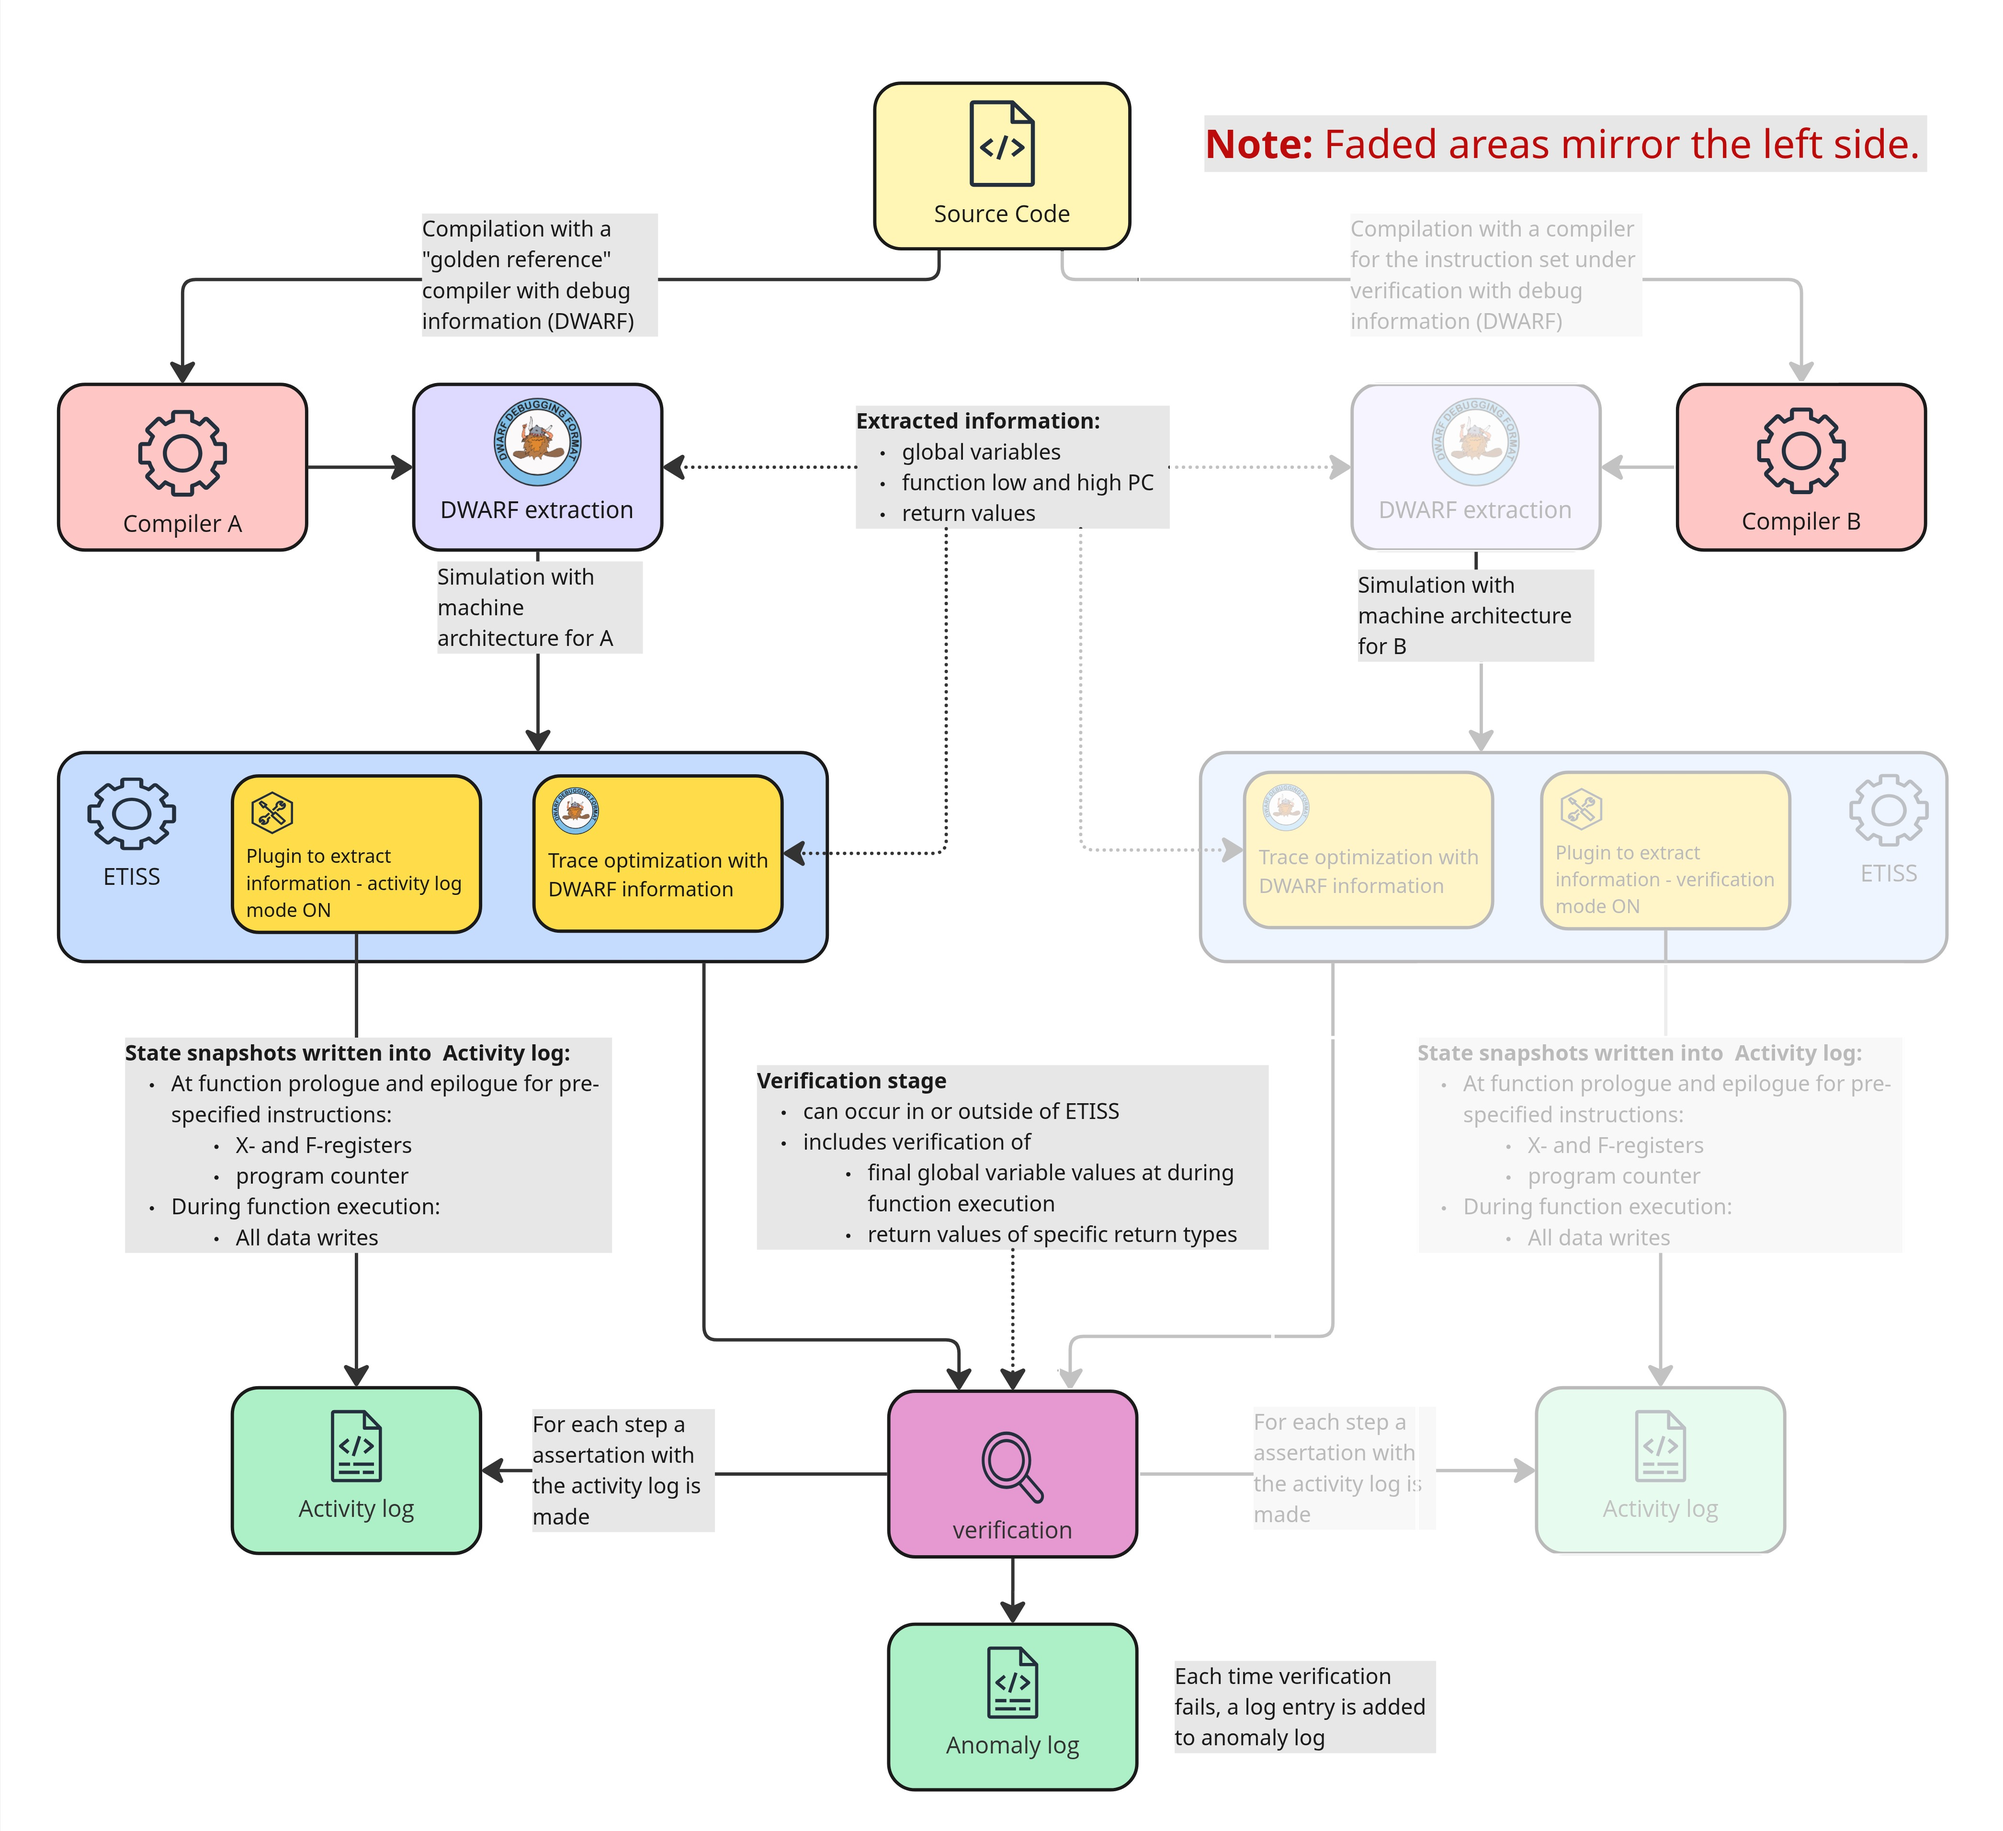
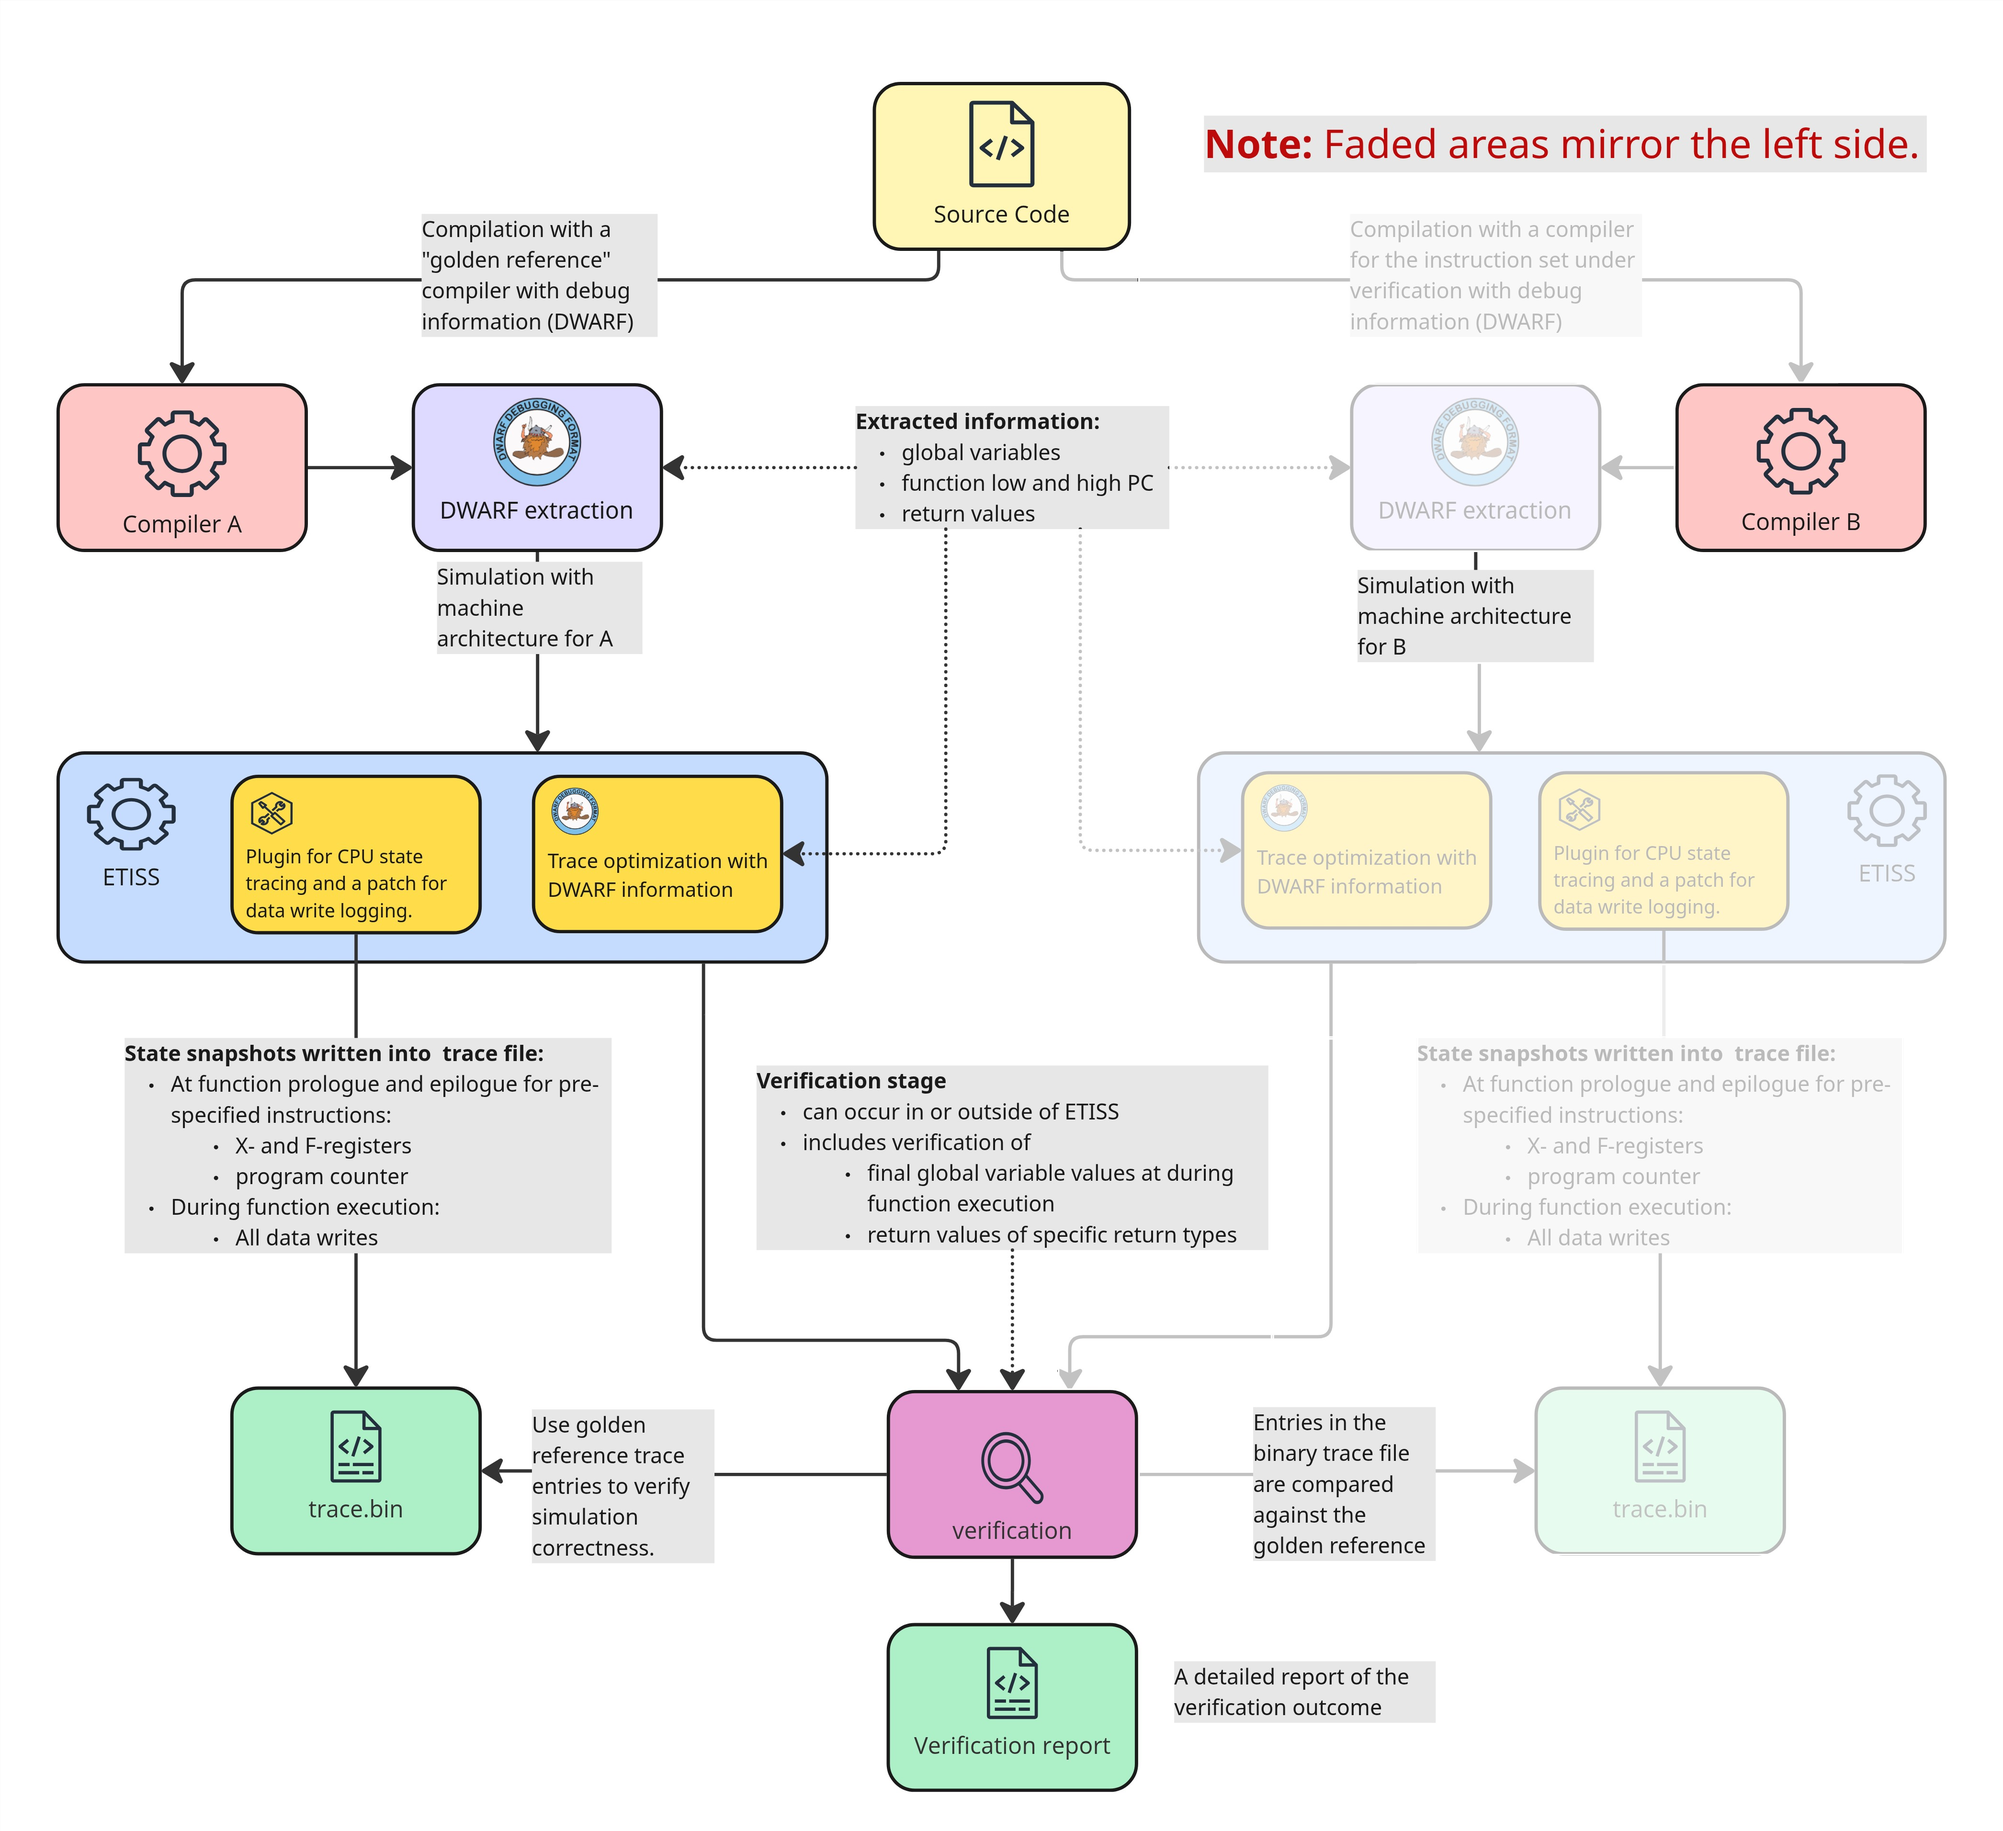
Update project documenation

diff --git a/py_validator_pipeline/README.md b/py_validator_pipeline/README.md
@@ -1,9 +1,14 @@
 # ETISS-GTS PIPELINE
 
-: add introduction and links to relevant documentation. Is there a need to add a lisence here?   
+ETISS-GTS is a proof-of-concept verification infrastructure for traced based comparison of an Instruction Set under development to a trusted golden reference. The pipeline executes ETISS simulations on two binaries compiled for the golden reference instruction set and the instruction set under development, and compares the execution traces from data writes to global variables and of function return values. 
 
 ## Installation 
 
+### Installing ETISS
+
+As the verification pipeline executes two ETISS simulations, it requires a working ETISS installation. To install ETISS, please follow the instructions in the README.md in the root-directory of the ETISS project.
+
+### Installing the verification pipeline
 The recommended approach is to first create a virtual environment with 
 ```bash
 python3 -m venv venv
@@ -21,34 +26,40 @@ pip install -r requirements.txt
 
 ## Getting started
 
-This bash script template provides a useful starting point for running the verification pipeline:
+The pipeline extracts DWARF debug information from both binaries. The proof-of-concept implementation supports binaries that have been compiled without optimizations with `gcc`.
+
+This bash script template provides a useful starting point for running the verification pipeline. The script assumes that
+- the binary is compiled with the same name as the source code file of interest. For instance, in case the source code file of interest is `foo.c`, the binary is named `foo`
+- both binaries have identical names (i.e., in the given example both binaries are named `foo`)
+- the `.ini` files have the same name as the binary (i.e., in this example the ini file would be `foo.ini` for both binaries)
+- the function of interest can be found in the give source code file (i.e., in the example file `foo.c` has function `bar`)
 
 ```bash 
 #!/bin/bash
-DEBUG_ARG=""
-PROGRAM_NAME="prog.o"
-SOURCE_FILE="main.c"
-FUNCTION_OF_INTEREST="main"
+VERBOSE_ARG="--verbose"
+PROGRAM_NAME="foo"
+FUNCTION_OF_INTEREST="bar"
+SOURCE_FILE="foo.c"
 
 # Check if first argument is --debug
 if [[ "$1" == "--verbose" ]]; then
-    DEBUG_ARG="--debug"
+    VERBOSE_ARG="--verbose"
 fi
 
 python3 /home/holaphei/repos/etiss-fork/etiss/py_validator_pipeline/main.py \
-    --bin_golden_ref /<path_to_golden_ref_binary>/$PROGRAM_NAME \
-    --ini_golden_ref /<path_to_golden_ref_ini>/$PROGRAM_NAME.ini \
-    --bin_isuv /<path_to_binary_to_verify>/$PROGRAM_NAME \
-    --ini_isuv /<path_to_ini_file_of_the_binary_to_verify>/$PROGRAM_NAME.ini \
-    --src $SOURCE_FILE.c \
+    --bin_isuv /home/holaphei/repos/xmnn-isax-flow/etiss_riscv_examples/build/install/bin/$PROGRAM_NAME \
+    --ini_isuv /home/holaphei/repos/xmnn-isax-flow/etiss_riscv_examples/build/install/ini/$PROGRAM_NAME.ini \
+    --bin_golden_ref /home/holaphei/repos/etiss_riscv_examples/build/install/golden_ref/bin/$PROGRAM_NAME \
+    --ini_golden_ref /home/holaphei/repos/etiss_riscv_examples/build/install/golden_ref/ini/$PROGRAM_NAME.ini \
+    --src $SOURCE_FILE \
     --fun $FUNCTION_OF_INTEREST \
     --etiss_path /home/holaphei/repos/etiss-fork/etiss/build/bin \
     --etiss_executable bare_etiss_processor \
-    $DEBUG_ARG
+    $VERBOSE_ARG
 ```
 
 Explanations:
-- `bin_golden_ref`: the golden reference binary to simulate on ETISS
+- `bin_golden_ref`: the golden reference binary to simulate on ETISS.
 - `ini_golden_ref`: the .ini - file for ETISS simulation for the golden reference
 - `bin_isuv`: the binary under verification to simulate on ETISS
 - `ini_isuv`: the .ini - file for ETISS simulation for the binary under verification
@@ -58,15 +69,27 @@ Explanations:
 - `etiss_executable`: name of the etiss executable binary
 
 Bash-script variables:
-- `DEBUG_ARG`: as a convenience pipeline can be run in debug mode by adding the argument `--debug`. In debug mode more detailed output is printed to console and to log file.
-- `PROGRAM_NAME`: if the binary name and the ini-file name (excluding extension .ini) are identical, the program name can be used to quickly set the binary to execute
-- `SOURCE_FILE`: defines which source file in the compiled binary is of interest
+- `VERBOSE_ARG`: as a convenience pipeline can be run in verbose mode by adding the argument `--verbose`. In verbose  mode more detailed output is printed to console and to log file.
+- `PROGRAM_NAME`: to use this script, the binary name and the ini-file name (excluding extension .ini) must be identical. In the case of the script example, both binary files are named `foo` and both `.ini` files are named `foo.ini`
+- `SOURCE_FILE`: defines which source file in the compiled binary is of interest. 
 - `FUNCTION_OF_INTEREST`: defines the function to be verified. 
 
 Example usage: 
 ```bash
-./<script-name> --debug
+./<script-name>
 ```
 
+Example usage with verbose mode activated:
+```bash 
+./<script-name> --verbose
+```
 
+### Considerations
+
+A typical use-case could be to run the ETISS simulation with two different architectures. There are several approaches of how this can be achieved
+- A pause can be inserted into the pipeline before a new architecture is loaded into ETISS
+- The script and pipeline can be extended to run ETISS-simulations on different builds of ETISS
+- Additionally it can be investigated, if bare-metal ETISS supports specifying the architecture. In this case the two architectures could be given as arguments and passing the arguments to ETISS-simulation could be implemented to the pipeline.
+
+During the proof-of-concept work I personally extended the pipeline to use two different builds of ETISS as this was the quickest (if not the most practical) way forward. 
 

diff --git a/py_validator_pipeline/doc/technical-documentation.md b/py_validator_pipeline/doc/technical-documentation.md
@@ -1,0 +1,39 @@
+# Technical doumentation
+
+The purpose of this documentation is to provide  a brief introduction to the technical implementation of the verification pipeline. The main intended audience are the software engineers continuing the development of this project. 
+
+For more information, please see Heidi Holappa's Master's thesis on ETISS-GTS: http://hdl.handle.net/10138/602402
+
+## Overview
+
+The trace-based verification is based on the comparison of traces from a "golden reference" and an "instruction set under verification". The assumption here is that the "golden reference" behaves correctly and any discrepancies in the traced values would then suggests an anomaly in the behavior of the "instruction set under verification". Both binaries share the same source code. The source code is then compiled to two different architectures with **debug information and no optimizations**. After this the pipeline execution starts. The example script in `README.md` provides a list of all the information the pipeline requires to execute.  
+
+The pipeline executes the following stages:
+1. selected DWARF debug information is extraced from both binaries
+2. ETISS simulation is executed on both binaries. During simulation, traces of CPU snapshots and data writes are collected. Traces are stored to disk.
+3. Using DWARF debug information as a bridge the trace outputs are then compared to detect any anomalies
+4. Finally, the pipeline outputs a log both into the console output and into a file.
+
+![overview of the pipeline](img/second-iteration-ver-2.jpg)
+
+
+# DWARF extraction
+
+ETISS-GTS verification pipeline uses pyelftools as a dependency to extract DWARF debug information. The pyelftools out-of-the-box provides all extraction functionalities that were required for this proof-of-concept. Nevertheless, it took quite a bit of code to extract the required infromation and to structure it in a useful way. 
+
+As a first step, the metadata is extracted from the DWARF and ELF metadata. As the proof-of-concept only supports extraction from a single Compilation Unit (CU), next the CU for the sought source file is located. From here, the top DIEs are extracted and for each top DIE, all child DIEs required by the verification pipeline are also extracted. During extraction variables and parameters are recursively extracted by using the type composition.    
+
+## Code structure 
+
+Currently, the pipeline supports extracting DWARF debug information from a single Compilation Unit (CU). In future work the constraint should be lifted by introducting support for multiple CUs. The code structure follows the principles of object-oriented programming. The class `DwarfInfo` is the top most object instance through which all other object instances can be accessed. The DWARF info contains information on the selected Compilation Unit (which here is one of the source files), on subprograms in the source file and of the global variables in the source file. Similarily the subprograms again contain the informaiton on the formal parameters and local variables of the given subprogram. 
+
+![DWARF debug information](img/extracted-dwarf-debug-information.jpg)
+
+The DWARF data types are built using type composition. The implementation of the types in the verification pipeline follows a similar logic. Most types here inherit class AbstracType that defines methods all classes extending it should implement. Here, abstract classes are in this manner similar to interfaces in many other languages. Types other than base_type have a reference to an `AbstractType`, which as a kind of interface represents a contract that a class extending it is the reference, mimicking the type composition used in DWARF structure.    
+
+![DWARF types](img/type-dataclasses.jpg)
+
+The extracted traces are used to create simulation data entries. A new entry is formed for each invoked function. Each `SimulationDataEntry` references the `DwarfInfo` instance and additionally `MArchManager`, which provides information on the specific machine architecture. As of now the only supported machine architecture is `RV32IC`. It acts as a parent class for `RI32IMAC` and `RV32IMACFD` that override methods or implement abstract methods defined in `RV32IC` to comply with how these functionalities should behave in the given architecture based on the RISC-V ABI (Application Binary Interface). These methods are then used to verify the extracted traces from return values and data writes to global variables.   
+
+![Simulation entries and machine architecture](img/simulation-data.jpg)
+
